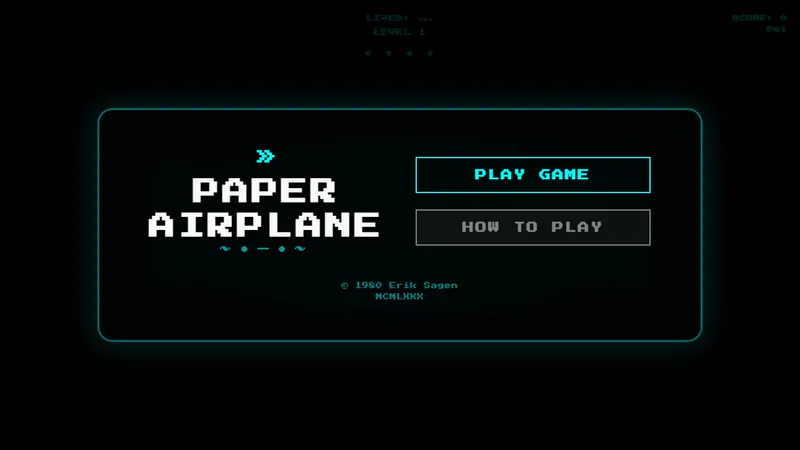
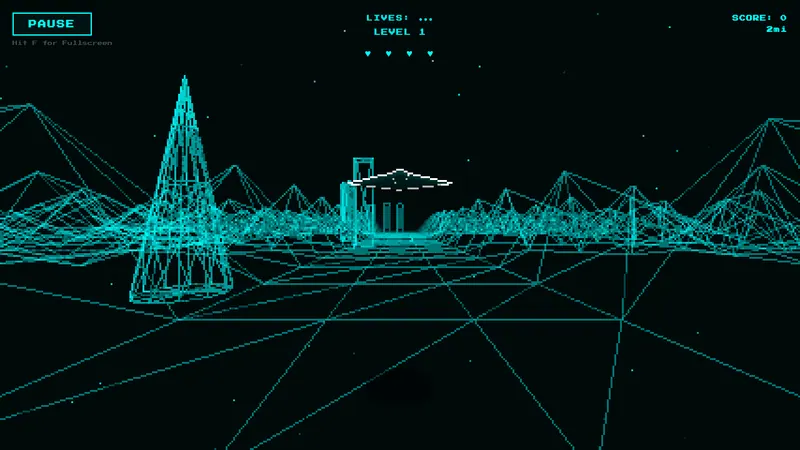
Games: new Paper Plane card image; correct card image sizes
- Gameplay capture showing the current look (Chunky pixel filter, white
  plane outline) instead of the old start screen, with updated alt text.
- Card images declared sizes=100vw, so desktops fetched the full 1280px
  file for a ~560px card. Set sizes on the <img> (which build-images reads)
  so browsers pick the right width.

Claude-Session: https://claude.ai/code/session_014WC2hdEH2q4WQaLciUE3t1

diff --git a/games/index.html b/games/index.html
@@ -214,8 +214,8 @@
 
                 <a href="/experiments/paper-plane" class="experiment-card">
                     <div class="experiment-image">
-                        <picture><source srcset="/assets/images/experiment-paper-plane-400w.webp 400w, /assets/images/experiment-paper-plane-800w.webp 800w, /assets/images/experiment-paper-plane-1200w.webp 1200w, /assets/images/experiment-paper-plane.webp 1280w" type="image/webp" sizes="100vw"><img src="/assets/images/experiment-paper-plane.jpg"
-                            alt="Paper Plane game screenshot showing a 3D paper airplane flying through the sky"
+                        <picture><source srcset="/assets/images/experiment-paper-plane-400w.webp 400w, /assets/images/experiment-paper-plane-800w.webp 800w, /assets/images/experiment-paper-plane-1200w.webp 1200w, /assets/images/experiment-paper-plane.webp 1280w" type="image/webp" sizes="(max-width: 768px) calc(100vw - 32px), 560px"><img src="/assets/images/experiment-paper-plane.jpg" sizes="(max-width: 768px) calc(100vw - 32px), 560px"
+                            alt="Paper Plane gameplay: a white paper airplane flies over a pixelated cyan wireframe landscape between a pyramid and a tower"
                             loading="lazy" width="1280" height="720"></picture>
                     </div>
                     <div class="experiment-info">
@@ -227,7 +227,7 @@
 
                 <a href="/experiments/slime-game" class="experiment-card">
                     <div class="experiment-image">
-                        <picture><source srcset="/assets/images/experiment-slime-game-400w.webp 400w, /assets/images/experiment-slime-game-800w.webp 800w, /assets/images/experiment-slime-game-1200w.webp 1200w, /assets/images/experiment-slime-game.webp 1280w" type="image/webp" sizes="100vw"><img src="/assets/images/experiment-slime-game.jpg"
+                        <picture><source srcset="/assets/images/experiment-slime-game-400w.webp 400w, /assets/images/experiment-slime-game-800w.webp 800w, /assets/images/experiment-slime-game-1200w.webp 1200w, /assets/images/experiment-slime-game.webp 1280w" type="image/webp" sizes="(max-width: 768px) calc(100vw - 32px), 560px"><img src="/assets/images/experiment-slime-game.jpg" sizes="(max-width: 768px) calc(100vw - 32px), 560px"
                             alt="Slime Game screenshot showing a 3D slime character in a colorful environment"
                             loading="lazy" width="1280" height="720"></picture>
                     </div>
@@ -240,7 +240,7 @@
 
                 <a href="/experiments/floaties" class="experiment-card">
                     <div class="experiment-image">
-                        <picture><source srcset="/assets/images/experiment-floaties-400w.webp 400w, /assets/images/experiment-floaties-800w.webp 800w, /assets/images/experiment-floaties-1200w.webp 1200w, /assets/images/experiment-floaties.webp 1280w" type="image/webp" sizes="100vw"><img src="/assets/images/experiment-floaties.jpg"
+                        <picture><source srcset="/assets/images/experiment-floaties-400w.webp 400w, /assets/images/experiment-floaties-800w.webp 800w, /assets/images/experiment-floaties-1200w.webp 1200w, /assets/images/experiment-floaties.webp 1280w" type="image/webp" sizes="(max-width: 768px) calc(100vw - 32px), 560px"><img src="/assets/images/experiment-floaties.jpg" sizes="(max-width: 768px) calc(100vw - 32px), 560px"
                             alt="Nebula Floaties screenshot showing a glowing primordial snake creature drifting through a dark nebula filled with floating food particles"
                             loading="lazy" width="1280" height="720"></picture>
                     </div>
